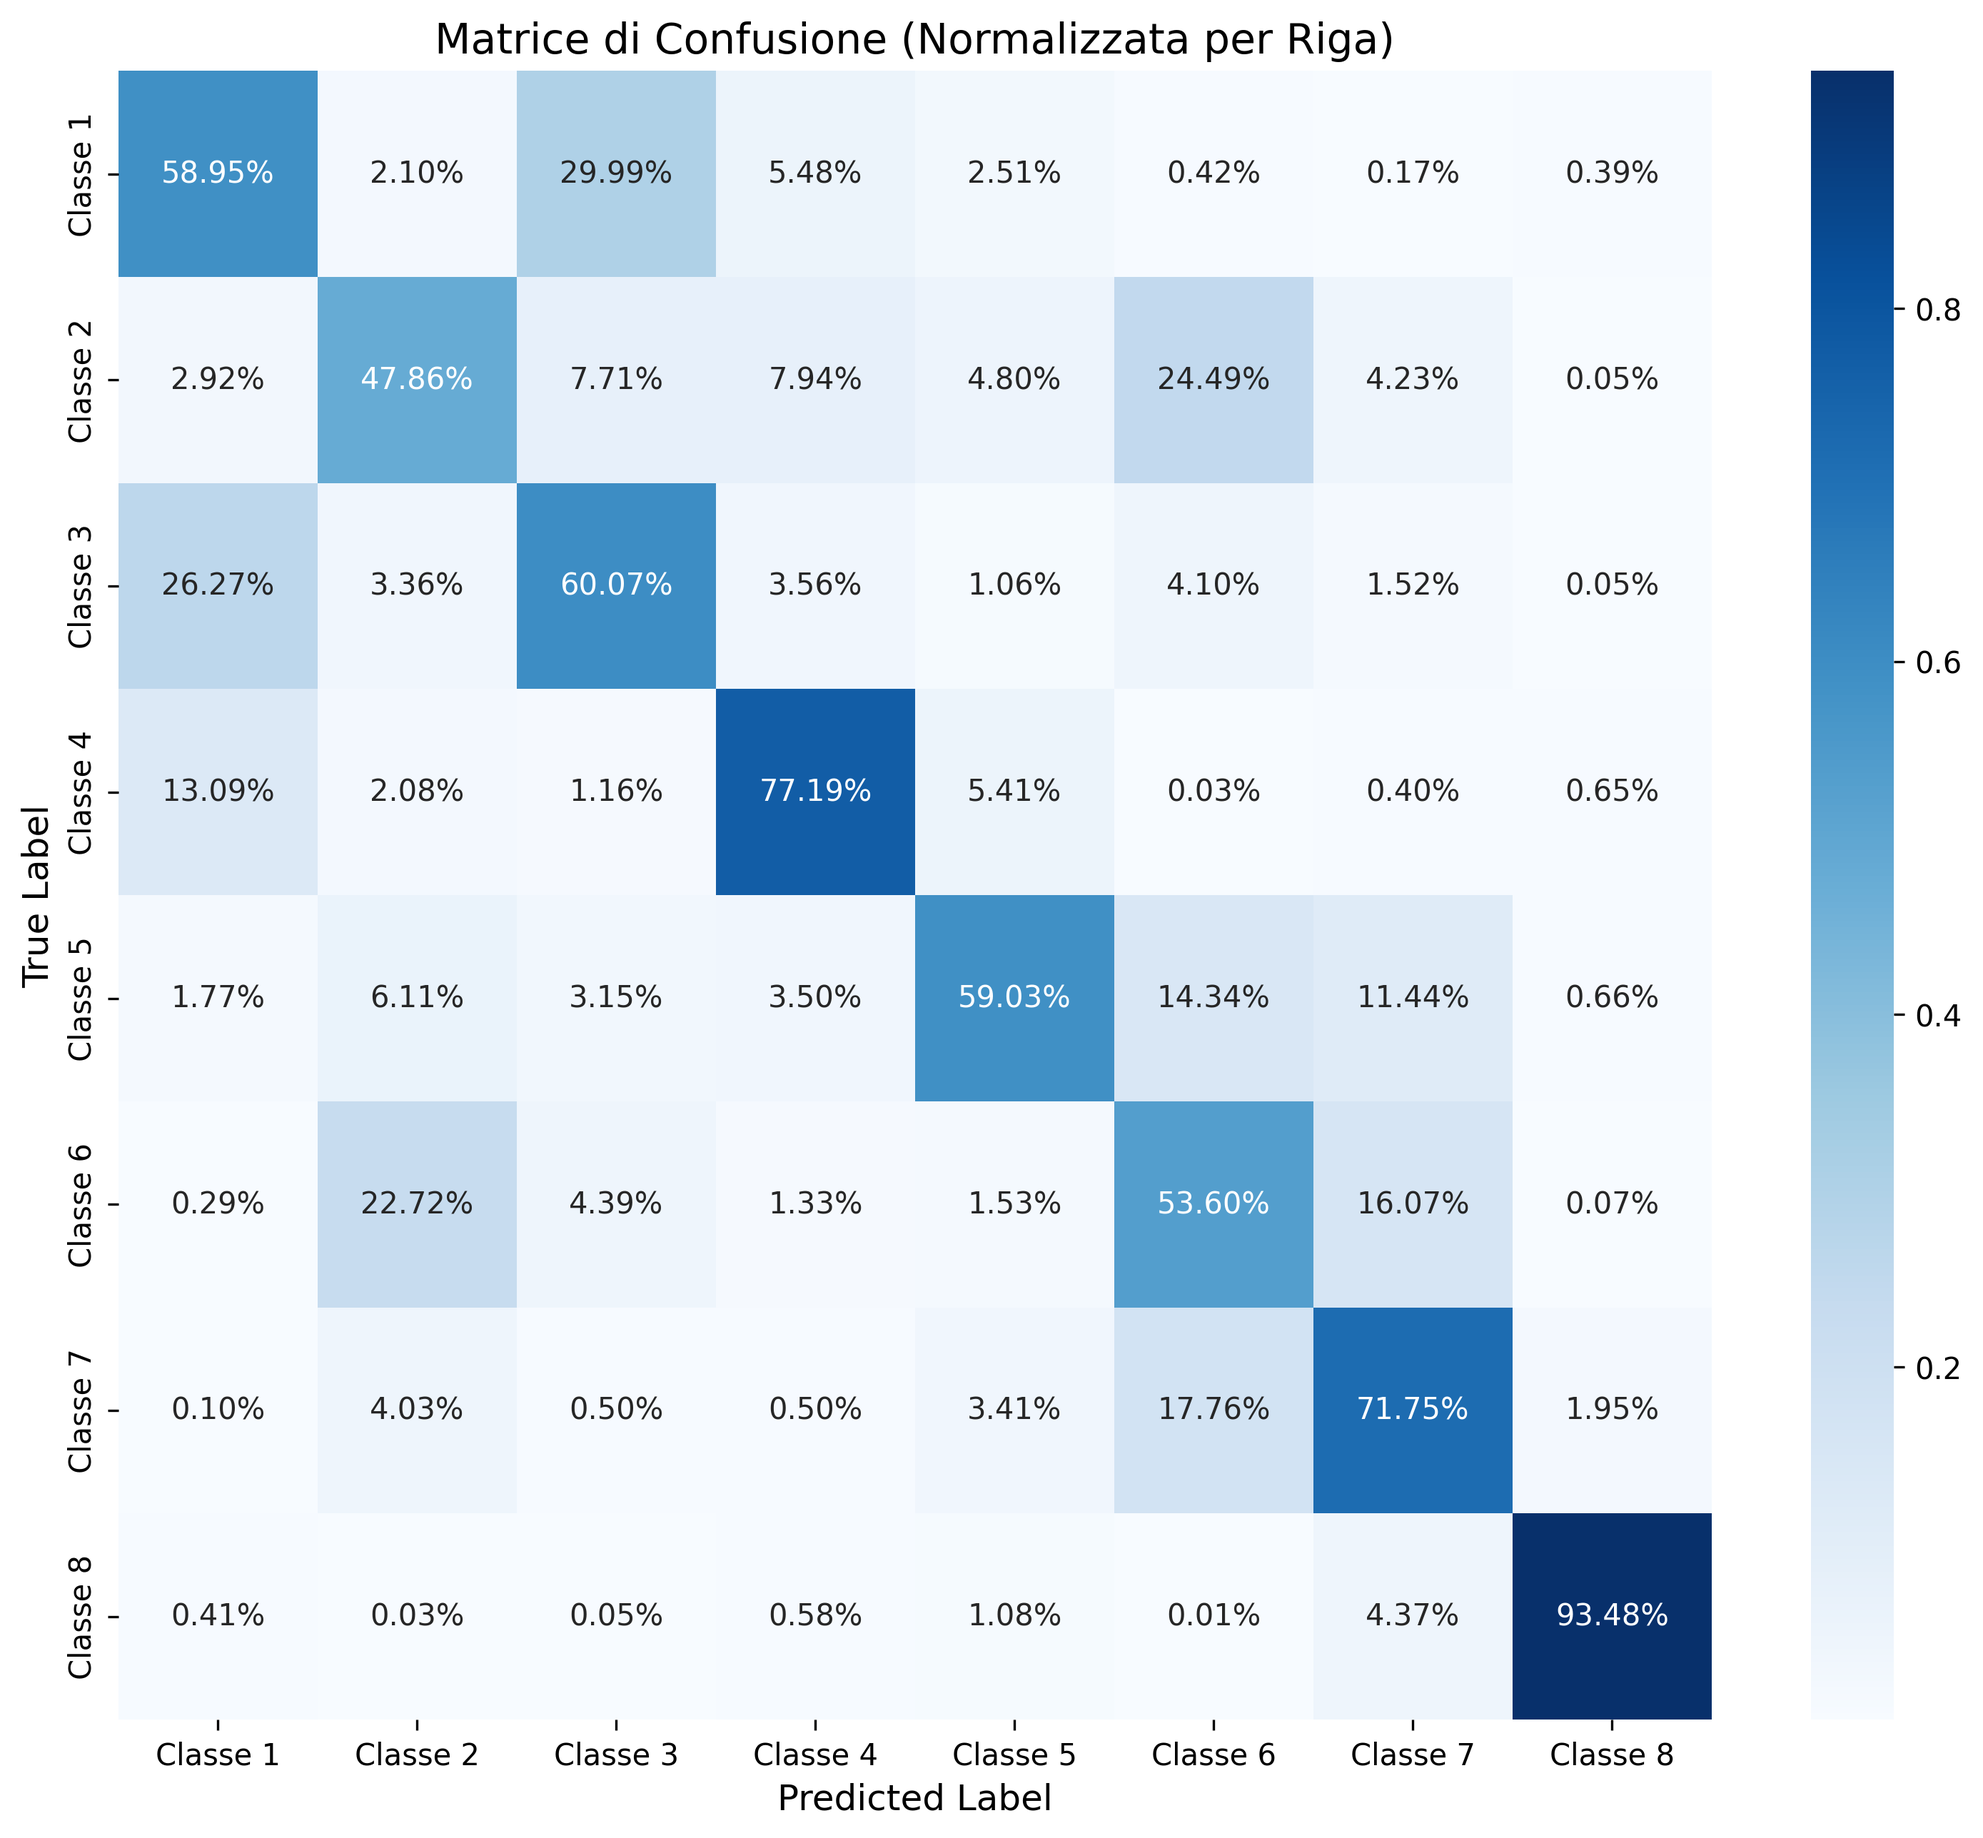
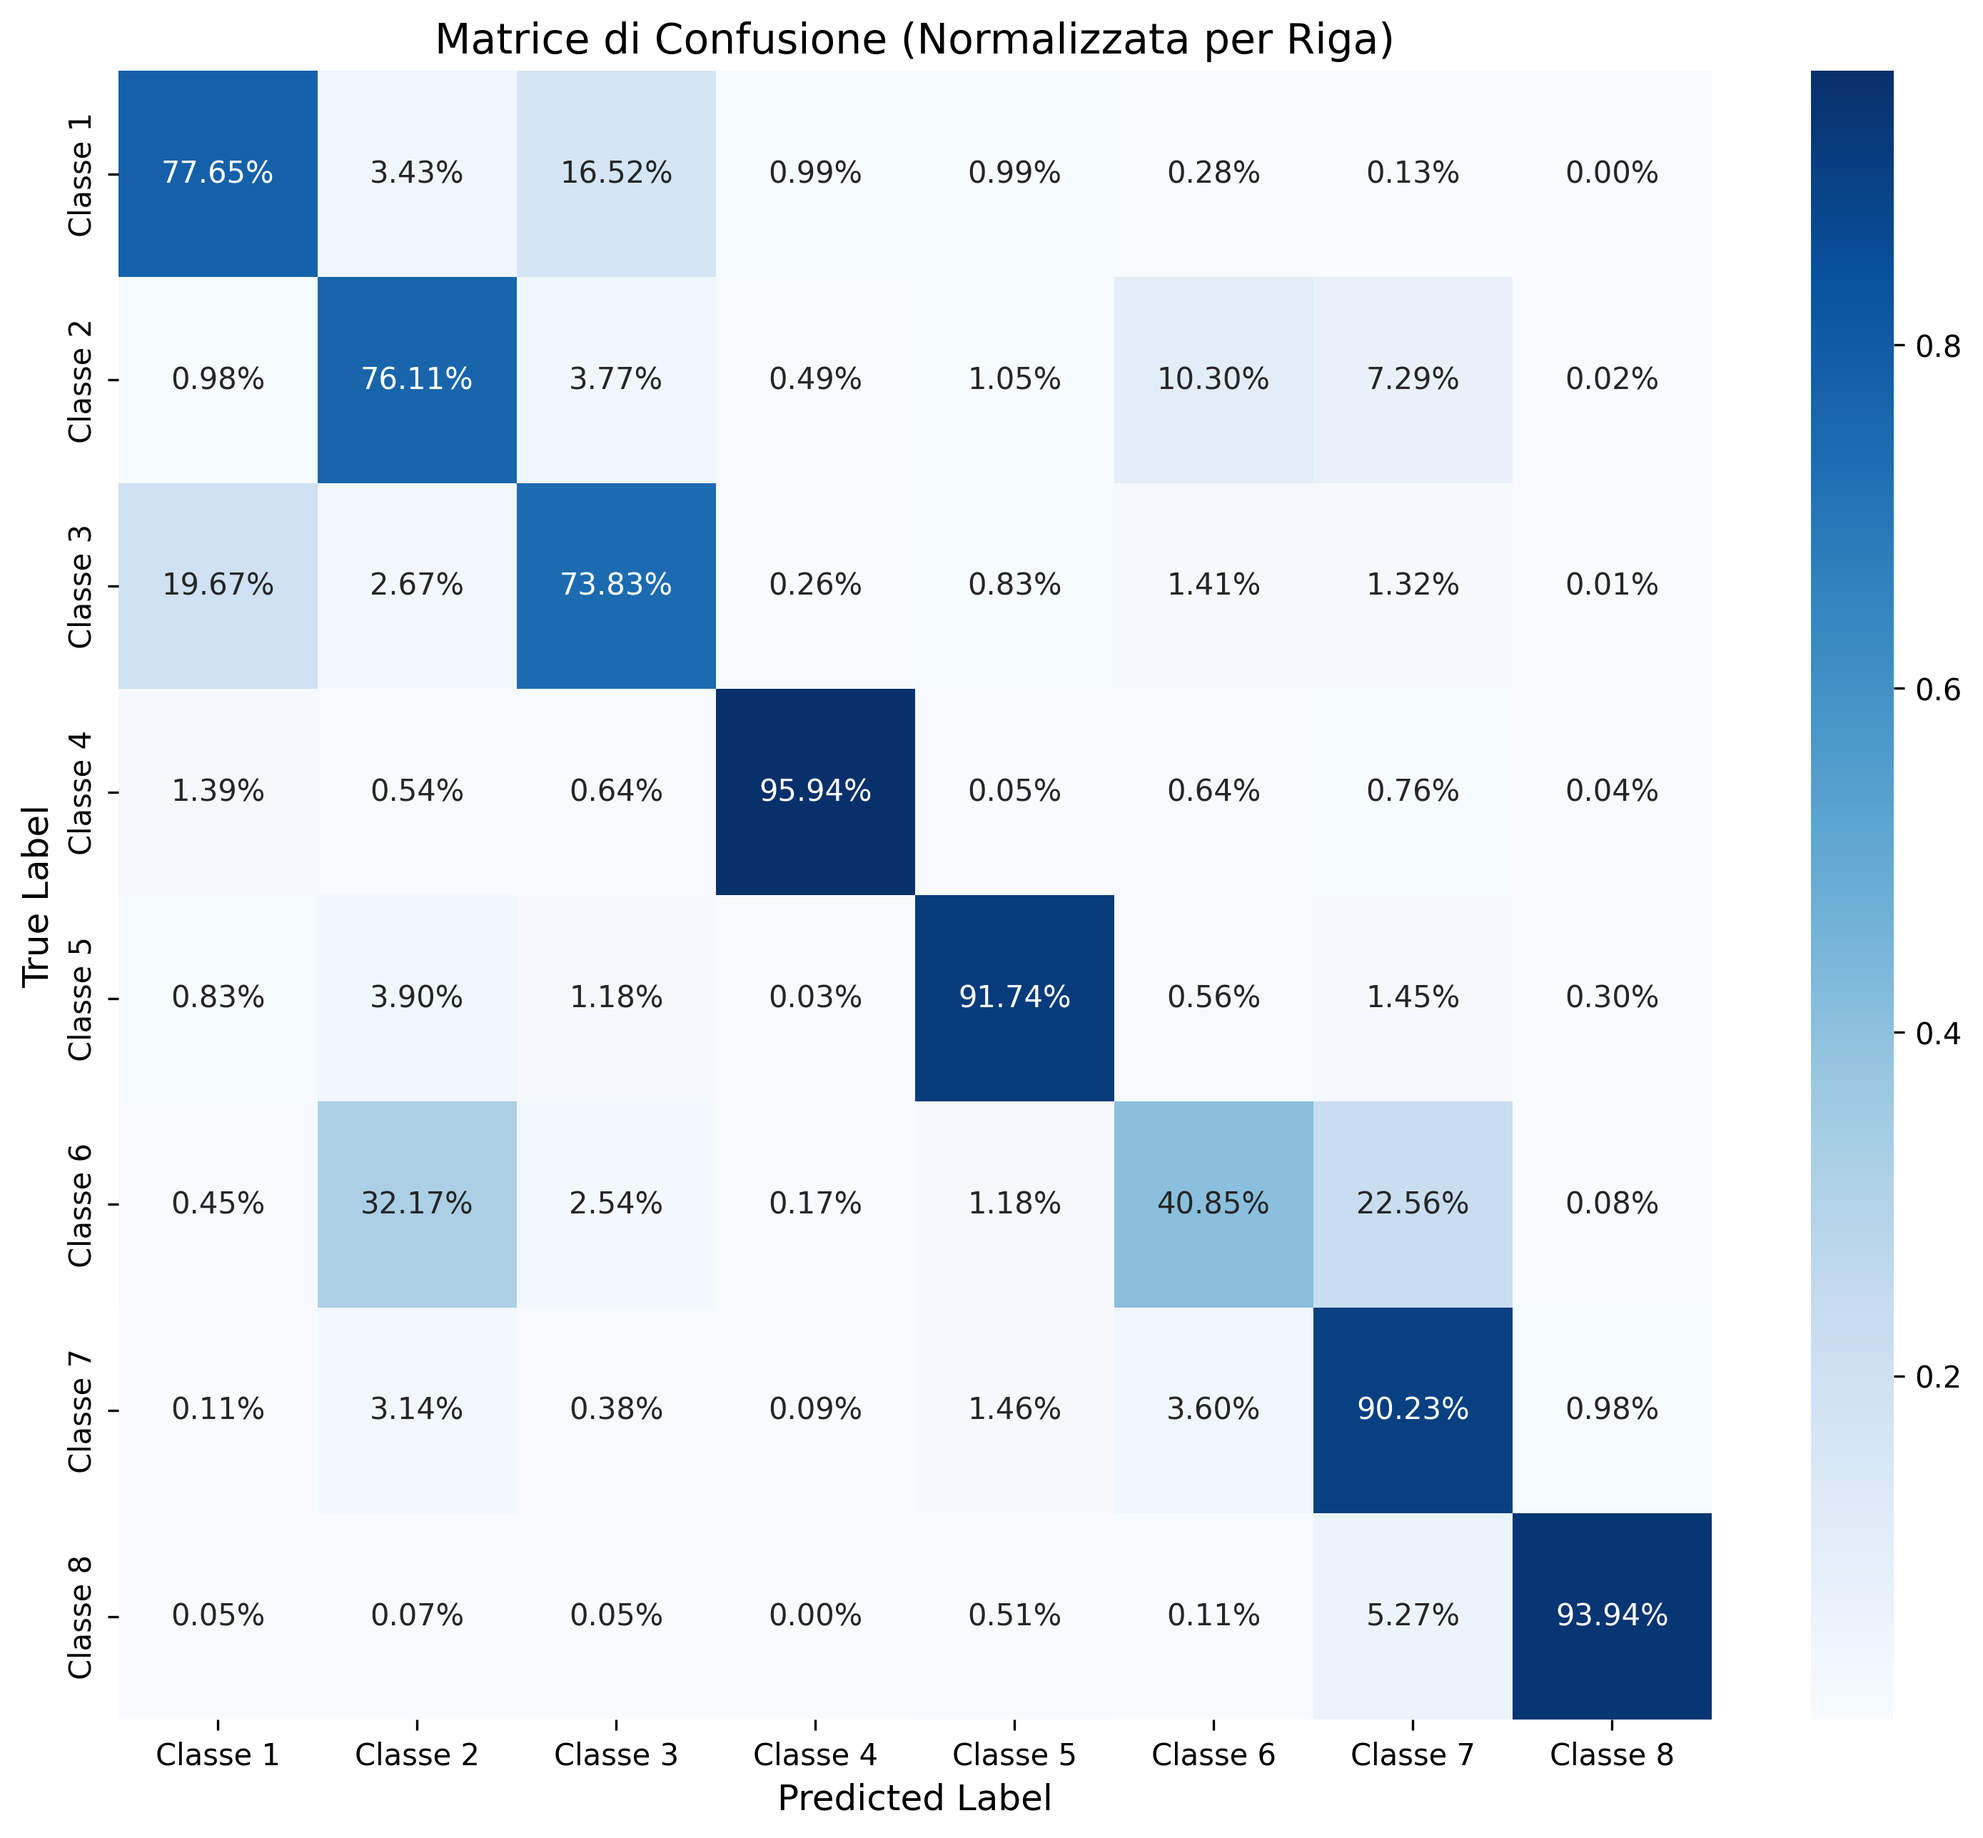
Results

diff --git a/local_execution/Leo/old/7 - All_in_1.py b/local_execution/Leo/old/7 - All_in_1.py
@@ -816,7 +816,7 @@ def main():
 
     # # --- FASE 2: UNFREEZE ALL, FINE-TUNE ---
     tqdm.write("\n--- INIZIO FASE 2: FINE-TUNING DELL'INTERA RETE (ENCODER SCONGELATO) ---")
-    model.segmentation_head.dropout.p = 0.25
+    model.segmentation_head.dropout.p = 0.15
     train_loader.dataset.transform = get_train_transforms_kornia(config, aggressive_p=0.5) 
 
     for param in model.encoder.parameters(): param.requires_grad = True
